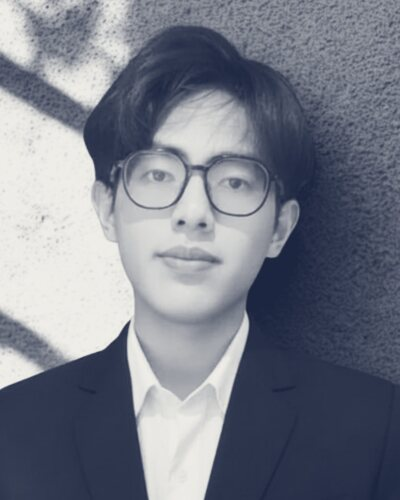
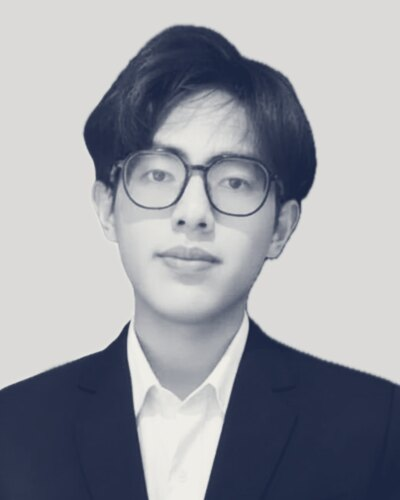
design: finish-review fixes for the visual revision
Cord in concrete webbing with ink edges so it reads on both colourways; ink focus ring on
stock cards; flip row wraps instead of colliding; seal caption fits; Pantau pin stays inside
its field; phones drop the cord and hero stickers and shorten the strap; badge and CV
portraits share one duotone print; CV tags, chips and labels extract as separate words and
the portrait sits on the header rule.

Changed region(s): [[0.0, 0.0, 1.0, 0.78], [0.0, 0.6, 0.18, 0.75], [0.24, 0.18, 0.27, 0.21]]

diff --git a/mockup/cv.html b/mockup/cv.html
@@ -43,7 +43,7 @@
     header.cv .contact li { display: inline-flex; align-items: center; gap: 1.4mm; }
     header.cv .contact svg { width: 3.3mm; height: 3.3mm; fill: var(--navy); flex: none; }
     /* the portrait stands in front of the strap band, cut out from its background */
-    .cv-photo { position: relative; margin: -9mm 0 -3mm; height: 31mm; transform: translateY(-4mm); display: flex; align-items: flex-end; justify-content: center; }
+    .cv-photo { position: relative; margin: -12mm 0 -3mm; height: 34mm; display: flex; align-items: flex-end; justify-content: center; }
     .cv-photo img { display: block; height: 100%; width: auto; }
 
     /* ---------- body: one cord down the left margin; every section clips onto it ---------- */
@@ -69,21 +69,21 @@
     ul.points li::marker { color: var(--metal); }
     /* metrics read first: bold navy, tabular */
     .m { font-weight: 800; color: var(--navy); font-feature-settings: "tnum" 1; }
-    .tags { display: inline-flex; flex-wrap: wrap; gap: 1.2mm; margin-left: 1.5mm; vertical-align: 0.2mm; }
-    .tags span, .chip { display: inline-block; padding: 0.2mm 1.8mm; border-radius: 99px; border: 0.7pt solid #b9bcc6; font-size: 7.4pt; font-weight: 650; color: var(--ink-2); line-height: 1.35; }
+    .tags { display: inline; margin-left: 1mm; }
+    .tags span, .chip { display: inline-block; margin: 0 0.4mm 0.5mm 0; padding: 0.2mm 1.8mm; border-radius: 99px; border: 0.7pt solid #b9bcc6; font-size: 7.4pt; font-weight: 650; color: var(--ink-2); line-height: 1.35; }
     ul.lines { margin: 0; padding: 0; list-style: none; }
     ul.lines li { display: flex; justify-content: space-between; align-items: center; gap: 12px; padding: 0.5mm 0; }
-    ul.lines li > span:first-child { display: inline-flex; align-items: center; gap: 2mm; }
+    ul.lines li > span:first-child { display: block; }
     /* rank and role tags, told by their cut as on the site */
-    .tag-cut { flex: none; display: inline-block; width: 21mm; padding: 0.5mm 2mm 0.4mm; text-align: center; font-size: 6.8pt; font-weight: 800; letter-spacing: 0.12em; text-transform: uppercase; font-variation-settings: "wdth" 85; background: var(--ink); color: var(--stock); border-radius: 0.5mm; }
+    .tag-cut { display: inline-block; margin-right: 1.4mm; vertical-align: 0.15mm; width: 21mm; padding: 0.5mm 2mm 0.4mm; text-align: center; font-size: 6.8pt; font-weight: 800; letter-spacing: 0.12em; text-transform: uppercase; font-variation-settings: "wdth" 85; background: var(--ink); color: var(--stock); border-radius: 0.5mm; }
     .tag-cut.winner, .tag-cut.speaker { clip-path: polygon(0 0, 100% 0, calc(100% - 1.6mm) 50%, 100% 100%, 0 100%); padding-right: 3mm; }
     .tag-cut.finalist, .tag-cut.volunteer { background: transparent; color: var(--ink); box-shadow: inset 0 0 0 0.8pt var(--ink); }
     .tag-cut.award { background: var(--stock); color: var(--ink); }
     .tag-cut.organizer, .tag-cut.host { border-radius: 99px; }
     .tag-cut.mentor { border-radius: 0.5mm 0.5mm 2mm 2mm; }
-    .skills p { margin: 0 0 1.2mm; display: flex; align-items: baseline; gap: 2mm; }
-    .skills b { flex: none; width: 24mm; font-size: 8.4pt; font-weight: 800; }
-    .skills .chips { display: flex; flex-wrap: wrap; gap: 1.2mm; }
+    .skills p { margin: 0 0 1.2mm; }
+    .skills b { display: inline-block; width: 24mm; font-size: 8.4pt; font-weight: 800; }
+    .skills .chips { display: inline; }
     /* foot: the other end of the strap */
     .cv-foot { position: absolute; left: 0; right: 0; bottom: 0; height: 3mm; background: var(--navy) url("assets/textures/twill.png") 0 0 / 24px 24px; }
 
@@ -170,19 +170,19 @@
         <section class="cv">
           <h2><span>Selected projects</span></h2>
           <div class="entry">
-            <div class="row"><span><b>Ledgerly</b>, invoicing for small shops <span class="tags"><span>Next.js</span><span>Go</span><span>PostgreSQL</span><span>Midtrans</span></span></span><span class="when">2025</span></div>
+            <div class="row"><span><b>Ledgerly</b>, invoicing for small shops <span class="tags"><span>Next.js</span> <span>Go</span> <span>PostgreSQL</span> <span>Midtrans</span></span></span><span class="when">2025</span></div>
             <ul class="points"><li>Used by <span class="m">1,200</span> shops; average time to get paid dropped from <span class="m">13.1 to 9.4 days</span>.</li></ul>
           </div>
           <div class="entry">
-            <div class="row"><span><b>Rute</b>, live bus arrivals for Jakarta commuters <span class="tags"><span>React Native</span><span>Go</span><span>Redis</span></span></span><span class="when">2024</span></div>
+            <div class="row"><span><b>Rute</b>, live bus arrivals for Jakarta commuters <span class="tags"><span>React Native</span> <span>Go</span> <span>Redis</span></span></span><span class="when">2024</span></div>
             <ul class="points"><li>Arrival times refresh every <span class="m">15 seconds</span> from GPS feeds.</li></ul>
           </div>
           <div class="entry">
-            <div class="row"><span><b>Kanbo</b>, realtime team boards <span class="tags"><span>Next.js</span><span>WebSockets</span><span>PostgreSQL</span></span></span><span class="when">2024</span></div>
+            <div class="row"><span><b>Kanbo</b>, realtime team boards <span class="tags"><span>Next.js</span> <span>WebSockets</span> <span>PostgreSQL</span></span></span><span class="when">2024</span></div>
             <ul class="points"><li>Presence updates under <span class="m">120 ms</span> for teams of 3 to 30.</li></ul>
           </div>
           <div class="entry">
-            <div class="row"><span><b>Pantau</b>, open-source uptime monitor <span class="tags"><span>Go</span><span>SQLite</span><span>HTMX</span></span></span><span class="when">2023 to present</span></div>
+            <div class="row"><span><b>Pantau</b>, open-source uptime monitor <span class="tags"><span>Go</span> <span>SQLite</span> <span>HTMX</span></span></span><span class="when">2023 to present</span></div>
             <ul class="points"><li>Single-binary deploy; <span class="m">640</span> GitHub stars and <span class="m">31</span> contributors.</li></ul>
           </div>
         </section>
@@ -190,21 +190,21 @@
         <section class="cv">
           <h2><span>Achievements</span></h2>
           <ul class="lines">
-            <li><span><span class="tag-cut winner">Winner</span>Nusantara Code Cup, software development</span><span class="when">2024</span></li>
-            <li><span><span class="tag-cut award">Certified</span>AWS Certified Developer, Associate</span><span class="when">2025</span></li>
-            <li><span><span class="tag-cut finalist">Finalist</span>Hackathon Jakarta Pintar (top 10 of 214)</span><span class="when">2023</span></li>
-            <li><span><span class="tag-cut award">Honorable</span>Regional Programming Contest</span><span class="when">2023</span></li>
-            <li><span><span class="tag-cut award">Dean's list</span>Five semesters, Institut Teknologi Nusantara</span><span class="when">2021 to 2023</span></li>
+            <li><span><span class="tag-cut winner">Winner</span> Nusantara Code Cup, software development</span><span class="when">2024</span></li>
+            <li><span><span class="tag-cut award">Certified</span> AWS Certified Developer, Associate</span><span class="when">2025</span></li>
+            <li><span><span class="tag-cut finalist">Finalist</span> Hackathon Jakarta Pintar (top 10 of 214)</span><span class="when">2023</span></li>
+            <li><span><span class="tag-cut award">Honorable</span> Regional Programming Contest</span><span class="when">2023</span></li>
+            <li><span><span class="tag-cut award">Dean's list</span> Five semesters, Institut Teknologi Nusantara</span><span class="when">2021 to 2023</span></li>
           </ul>
         </section>
 
         <section class="cv">
           <h2><span>Activities</span></h2>
           <ul class="lines">
-            <li><span><span class="tag-cut speaker">Speaker</span>JakWeb Meetup #42</span><span class="when">2025</span></li>
-            <li><span><span class="tag-cut organizer">Organizer</span>Ruang Kode Hackathon (300 participants)</span><span class="when">2024</span></li>
-            <li><span><span class="tag-cut mentor">Mentor</span>Campus Code Camp</span><span class="when">2024</span></li>
-            <li><span><span class="tag-cut host">Host</span>Open Source Saturday</span><span class="when">2023</span></li>
+            <li><span><span class="tag-cut speaker">Speaker</span> JakWeb Meetup #42</span><span class="when">2025</span></li>
+            <li><span><span class="tag-cut organizer">Organizer</span> Ruang Kode Hackathon (300 participants)</span><span class="when">2024</span></li>
+            <li><span><span class="tag-cut mentor">Mentor</span> Campus Code Camp</span><span class="when">2024</span></li>
+            <li><span><span class="tag-cut host">Host</span> Open Source Saturday</span><span class="when">2023</span></li>
           </ul>
         </section>
 
@@ -218,9 +218,9 @@
 
         <section class="cv skills">
           <h2><span>Skills</span></h2>
-          <p><b>Languages</b><span class="chips"><span class="chip">TypeScript</span><span class="chip">Go</span><span class="chip">SQL</span><span class="chip">Python</span></span></p>
-          <p><b>Web</b><span class="chips"><span class="chip">Next.js</span><span class="chip">React</span><span class="chip">React Native</span><span class="chip">Tailwind CSS</span></span></p>
-          <p><b>Data and infra</b><span class="chips"><span class="chip">PostgreSQL</span><span class="chip">Redis</span><span class="chip">Docker</span><span class="chip">Playwright</span></span></p>
+          <p><b>Languages</b> <span class="chips"><span class="chip">TypeScript</span> <span class="chip">Go</span> <span class="chip">SQL</span> <span class="chip">Python</span></span></p>
+          <p><b>Web</b> <span class="chips"><span class="chip">Next.js</span> <span class="chip">React</span> <span class="chip">React Native</span> <span class="chip">Tailwind CSS</span></span></p>
+          <p><b>Data and infra</b> <span class="chips"><span class="chip">PostgreSQL</span> <span class="chip">Redis</span> <span class="chip">Docker</span> <span class="chip">Playwright</span></span></p>
         </section>
       </div>
       <span class="cv-foot" aria-hidden="true"></span>

diff --git a/mockup/styles.css b/mockup/styles.css
@@ -78,6 +78,7 @@ button { font: inherit; color: inherit; }
 
 :focus-visible { outline: 3px solid var(--on-ground); outline-offset: 3px; border-radius: 6px; }
 .on-stock :focus-visible, .on-stock:focus-visible { outline-color: var(--ink); }
+.project :focus-visible, .itinerary :focus-visible, .event :focus-visible { outline-color: var(--ink); } /* stock cards keep an ink ring on either colourway */
 
 .sr-only { position: absolute; width: 1px; height: 1px; padding: 0; margin: -1px; overflow: hidden; clip: rect(0 0 0 0); white-space: nowrap; border: 0; }
 .skip { position: fixed; left: 16px; top: -60px; z-index: 100; background: var(--stock); color: var(--ink); padding: 10px 16px; border-radius: var(--r-pill); font-weight: 700; text-decoration: none; transition: top 200ms var(--ease-out); }
@@ -107,6 +108,7 @@ button { font: inherit; color: inherit; }
   background-size: auto, 24px 24px;
 }
 /* the seam: each panel is sewn onto the one above it */
+.theme-light .clip-mark { border-color: var(--metal-dark); }
 .theme-dark + .theme-light::before, .theme-light + .theme-dark::before {
   content: ""; position: absolute; left: 0; right: 0; top: 12px; height: 0; border-top: 2px dashed var(--stitch); pointer-events: none;
 }
@@ -115,7 +117,7 @@ button { font: inherit; color: inherit; }
 .cord { position: fixed; z-index: 2; left: var(--cord-x); top: 0; bottom: 0; width: 6px; pointer-events: none; opacity: 0; transition: opacity 400ms var(--ease-out); }
 .cord.is-on { opacity: 1; }
 .cord::before { content: ""; position: absolute; inset: 0; background: rgba(127, 131, 145, 0.24); border-radius: 3px; }
-.cord-fill { position: absolute; inset: 0; background: var(--ink); border-radius: 3px; transform-origin: top; transform: scaleY(0);
+.cord-fill { position: absolute; inset: 0; background-color: var(--concrete); box-shadow: inset 0 0 0 1.5px rgba(17, 18, 22, 0.7); border-radius: 3px; transform-origin: top; transform: scaleY(0);
   background-image: url("assets/textures/webbing.png"); background-size: 16px 16px; }
 
 /* ---------- Buttons ---------- */
@@ -237,7 +239,9 @@ main { position: relative; z-index: 1; }
 .badge-role { font-size: clamp(16px, 1.3vw, 19px); font-weight: 750; line-height: 1.15; }
 .badge-stack { margin-top: 6px; font-size: 13.5px; color: var(--ink-2); line-height: 1.35; }
 .badge-foot { margin-top: auto; margin-left: calc(-1 * clamp(20px, 2vw, 28px)); margin-right: calc(-1 * clamp(20px, 2vw, 28px)); }
-.flip-row { display: flex; justify-content: space-between; align-items: center; padding: 0 clamp(20px, 2vw, 28px) 12px; font-size: 13px; font-weight: 650; color: var(--ink-2); }
+.flip-row { display: flex; justify-content: space-between; align-items: center; gap: 12px; padding: 0 clamp(20px, 2vw, 28px) 12px; font-size: 13px; line-height: 1.25; font-weight: 650; color: var(--ink-2); }
+.flip-row > span { min-width: 0; text-wrap: balance; }
+.flip-row .flip-btn { flex: none; }
 .flip-btn {
   display: inline-flex; align-items: center; gap: 8px; min-height: 40px; padding: 0 14px 0 12px; border-radius: var(--r-pill);
   border: 2px solid var(--ink); background: transparent; color: var(--ink); font-weight: 700; font-size: 13.5px; cursor: pointer;
@@ -298,7 +302,7 @@ main { position: relative; z-index: 1; }
   line-height: 1;
 }
 .s-award .seal b { display: block; font-size: 30px; font-weight: 900; font-variation-settings: "wdth" 125; }
-.s-award .seal small { display: block; font-size: 11px; font-weight: 750; letter-spacing: 0.1em; text-transform: uppercase; margin-top: 4px; font-variation-settings: "wdth" 80; }
+.s-award .seal small { display: block; font-size: 10px; line-height: 1.15; font-weight: 750; letter-spacing: 0.08em; text-transform: uppercase; margin-top: 4px; font-variation-settings: "wdth" 80; }
 
 .statement { position: absolute; z-index: 2; left: var(--gutter); width: min(52vw, 740px); top: 18%; }
 .lede { font-size: clamp(38px, 3.9vw, 58px); line-height: 1.02; font-weight: 800; font-variation-settings: "wdth" 90; letter-spacing: -0.025em; text-wrap: balance; }
@@ -487,7 +491,7 @@ main { position: relative; z-index: 1; }
   .role { justify-self: start; }
   .agenda .thumb { display: block; width: 100%; aspect-ratio: 16 / 9; object-fit: cover; border-radius: 8px; border: 6px solid #fff; }
   .preview { display: none; }
-  .mock-note { left: 16px; right: auto; }
+  .mock-note { left: auto; right: 12px; top: 80px; bottom: auto; }
 }
 
 /* ---------- Reduced motion: final, readable state ---------- */
@@ -518,6 +522,8 @@ main { position: relative; z-index: 1; }
   .pin, .pin.points-r { left: auto !important; top: auto !important; right: 12px; bottom: 12px; max-width: 66%; translate: none; padding: 10px 12px 10px 30px; clip-path: polygon(16px 0, 100% 0, 100% 100%, 16px 100%, 0 50%); border-radius: 0 6px 6px 0; }
   .pin.points-r::before { left: 11px; right: auto; }
   .clip-mark { display: none; }
+  .cord { display: none; } /* the cord rules the desktop page; on phones it only crossed the hero */
+  .stickers { display: none; } /* every project is one scroll away as a full card */
   .sticker-cap, .sticker.is-resting .sticker-cap { display: none; } /* stickers stay links to their project cards */
   .event .year { font-size: 44px; }
   .s-ledgerly .sticker-cap { left: 26px; transform: none !important; }
@@ -525,4 +531,11 @@ main { position: relative; z-index: 1; }
   .pin b, .pin.is-big b { font-size: 26px; }
   .pin span { font-size: 12.5px; }
   .fan { padding-bottom: 110px; }
+}
+
+/* narrow phones: shorter strap and a smaller pass so the statement reaches the first screen */
+@media (max-width: 420px) {
+  .pendulum { --strap-l: 110px; }
+  .badge { --badge-w: 260px; }
+  .hero-stage { height: 560px; }
 }

diff --git a/mockup/index.html b/mockup/index.html
@@ -8,7 +8,7 @@
   <link rel="preconnect" href="https://fonts.googleapis.com">
   <link rel="preconnect" href="https://fonts.gstatic.com" crossorigin>
   <link href="https://fonts.googleapis.com/css2?family=Archivo:wdth,wght@62..125,100..900&display=swap" rel="stylesheet">
-  <link rel="stylesheet" href="styles.css?v=15">
+  <link rel="stylesheet" href="styles.css?v=16">
 </head>
 <body>
   <svg width="0" height="0" style="position:absolute" aria-hidden="true">
@@ -119,7 +119,7 @@
           <li class="slot-li s-rute"><a class="sticker" href="#p-rute"><img src="assets/screens/rute.png" alt="Rute app showing live bus arrivals at Harmoni Central" width="780" height="1688"><span class="sticker-cap">Rute: live bus arrivals <svg class="icon" aria-hidden="true"><use href="#i-arrow-ur"/></svg></span></a></li>
           <li class="slot-li s-kanbo"><a class="sticker" href="#p-kanbo"><img src="assets/screens/kanbo.png" alt="Kanbo board with a teammate editing a card in real time" width="1440" height="900"><span class="sticker-cap">Kanbo: realtime team boards <svg class="icon" aria-hidden="true"><use href="#i-arrow-ur"/></svg></span></a></li>
           <li class="slot-li s-pantau"><a class="sticker" href="#p-pantau"><img src="assets/screens/pantau.png" alt="Pantau status page with 90 days of uptime bars" width="1440" height="900"><span class="sticker-cap">Pantau: open-source uptime monitor <svg class="icon" aria-hidden="true"><use href="#i-arrow-ur"/></svg></span></a></li>
-          <li class="slot-li s-award"><a class="sticker" href="#achievements"><span class="seal"><span><b>1st</b><small>Code Cup 2024</small></span></span><span class="sticker-cap">Winner, Nusantara Code Cup <svg class="icon" aria-hidden="true"><use href="#i-arrow-ur"/></svg></span></a></li>
+          <li class="slot-li s-award"><a class="sticker" href="#achievements"><span class="seal"><span><b>1st</b><small>Code Cup<br>2024</small></span></span><span class="sticker-cap">Winner, Nusantara Code Cup <svg class="icon" aria-hidden="true"><use href="#i-arrow-ur"/></svg></span></a></li>
         </ul>
       </div>
 
@@ -219,8 +219,8 @@
         <article class="project" id="p-pantau" style="--field:#16161D">
           <div class="project-field">
             <figure class="print" style="left:30%;top:16%;width:60%;height:84%;--rot:1.5deg"><img src="assets/screens/pantau.png" alt="Pantau status page: all systems operational, uptime bars per service" loading="lazy" width="1440" height="900" style="object-position:center top"></figure>
-            <svg class="leader" viewBox="0 0 100 100" preserveAspectRatio="none" aria-hidden="true"><path d="M 36 52 C 28 52, 26 40, 22 36" pathLength="1"/></svg><span class="lead-dot" style="left:36%;top:52%" aria-hidden="true"></span>
-            <p class="pin is-big points-r" style="left:22%;top:36%"><b>640 stars</b><span>on GitHub, 31 contributors (sample)</span></p>
+            <svg class="leader" viewBox="0 0 100 100" preserveAspectRatio="none" aria-hidden="true"><path d="M 36 52 C 31 52, 30 40, 27 36" pathLength="1"/></svg><span class="lead-dot" style="left:36%;top:52%" aria-hidden="true"></span>
+            <p class="pin is-big points-r" style="left:27%;top:36%"><b>640 stars</b><span>on GitHub, 31 contributors (sample)</span></p>
           </div>
           <div class="project-body">
             <div>

diff --git a/.impeccable/surfaces/mockup-index-html.md b/.impeccable/surfaces/mockup-index-html.md
@@ -17,11 +17,11 @@ Tech/software recruiters and hiring managers scanning a candidate in seconds; ac
 
 THESIS: Recruiters meet this engineer the way they meet candidates at a fair: by reading the badge. Refuses the dark terminal dev portfolio and the headline-over-equal-cards page.
 
-OWN-WORLD: Woven ultramarine lanyard (#2132D6, fine twill) is the ground of the whole page. Content prints on off-white PVC badge stock (#F2F2EE, 18px corners, punched pill slot) in near-black ink (#111216). Silver clip metal (#C9CCD6). Project screenshots are die-cut stickers with white kiss-cut borders. Role ribbons are satin strips whose cut shape and printed word carry state. One family, Archivo variable: expanded black for names, normal width for reading, condensed caps for printed labels. Buttons are full pills; cards 18px; stickers 16px.
+OWN-WORLD: Two woven lanyard colourways sewn panel to panel: navy (#1D2640, fine twill) and concrete (#E5E4DF, the same twill printed finer), alternating section by section with a stitched seam at every join. Content prints on off-white PVC badge stock (#F2F2EE, 18px corners, punched pill slot) in near-black ink (#111216). Silver clip metal (#C9CCD6) in flat facets for the ring, swivel and lobster clasp. Project screenshots are die-cut stickers with white kiss-cut borders. Role ribbons are satin strips whose cut shape and printed word carry state. One family, Archivo variable: expanded black for names, normal width for reading, condensed caps for printed labels. Buttons are full pills; cards 18px; stickers 16px. (Revised 2026-11-14 at the owner's request: the single ultramarine ground was too loud.)
 
 STORY: Read the badge (name, role, stack, availability) → peel through project stickers → featured case studies with pinned metrics → achievements as a fanned badge collection → activities as the event agenda → experience itinerary → take the CV from the badge's back.
 
-FIRST VIEWPORT: Full-bleed lanyard ground. One-line nav on top, Download CV pill at right. A strap drops from the top edge to a silver clip; the badge (about 360x520) hangs left of centre, first name huge, swings when dragged, flips to a back with QR and Download CV. Five project stickers orbit at varied angles and sizes; hover or focus dims the rest and shows a caption pill. Statement (max 2 lines) and "See the work" sit lower right on the ground.
+FIRST VIEWPORT: Navy panel. One-line nav on top, Download CV pill at right. Left: the statement (two lines) and See the work / Download CV, then a loose collage of the five project stickers and the winner seal underneath; no caption shows until hover or focus. Right, alone: a concrete strap loop drops from above the viewport, its two printed ends sewn together and folded round a metal ring; a swivel and lobster clasp hook through the badge slot. The badge (about 340x482) is an ID pass: navy header band, the owner's duotone portrait, role and stack, first name huge, availability band; it swings when dragged and flips to a back with QR and Download CV. Its shadow falls across the seam into the next panel.
 
 FORM: Lanyard & Badge, position 3 on the first grounded list, chosen by the user after a re-roll. seed:033c5acd86a80b35. Raises: state by form not hue (jackfield); fixed badge sweep (six-pack); ground committed at page scale (mezzotint); one ribbon ramp for rank (star atlas); metrics pinned on leader lines (tensegrity); one vertical cord rules the page (deep dive).
 
